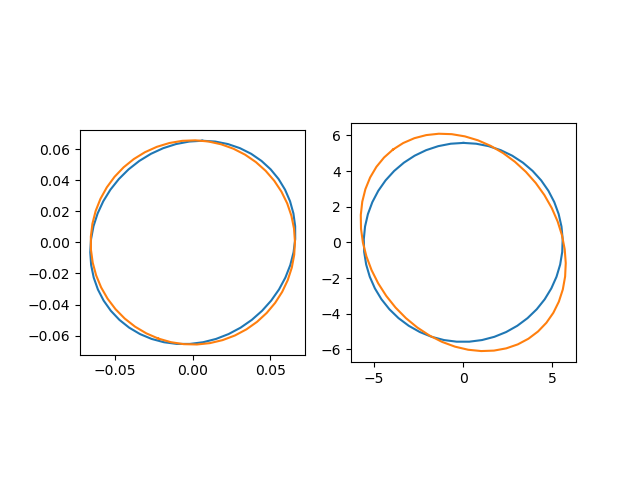
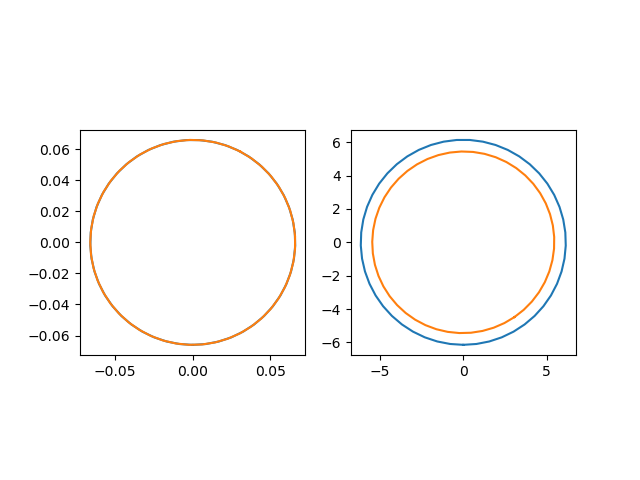
Bugfix
Made sure that the initial position is inside the region with density, such that the gradients are not underestimated.

diff --git a/Scotty_beam_me_up.py b/Scotty_beam_me_up.py
@@ -191,7 +191,7 @@ def beam_me_up(tau_step,
         if poloidal_flux <= 0.9473479057893939:
             density = 1.1*(-6.78999607*poloidal_flux + 6.43248856)*np.tanh(0.96350798 * poloidal_flux + 0.48792645)
         else:
-            density = 0
+            density = 0.0
         return density
     
     # This part of the code defines find_B_R, find_B_T, find_B_zeta
@@ -401,6 +401,10 @@ def beam_me_up(tau_step,
             for ii in range(0,numberOfFineSearchPoints):
                 poloidal_fine_search_array[ii] = interp_poloidal_flux(R_fine_search_array[ii],Z_fine_search_array[ii])
             entry_index = find_nearest(poloidal_fine_search_array,poloidal_flux_enter)
+            if poloidal_fine_search_array[entry_index] > poloidal_flux_enter:
+                # The first point needs to be in the plasma
+                # If the first point is outside, then there will be errors when the gradients are calculated
+                entry_index = entry_index + 1
             entry_position = np.zeros(3) # R,Z
             entry_position[0] = R_fine_search_array[entry_index]
             entry_position[1] = K_zeta_launch/K_R_launch * ( 1/launch_position[0] - 1/entry_position[0] )
@@ -412,8 +416,7 @@ def beam_me_up(tau_step,
                                                     + (launch_position[2] - entry_position[2])**2
                                                     )
             # Entry point found
-            plt.figure()
-            plt.plot(R_fine_search_array,poloidal_fine_search_array)
+
             
             # Calculate entry parameters from launch parameters
             # That is, find beam at start of plasma given its parameters at the antenna
@@ -664,11 +667,6 @@ def beam_me_up(tau_step,
 #    eigenvalues_output = np.zeros([numberOfDataPoints,3],dtype='complex128')
 #    eigenvectors_output = np.zeros([numberOfDataPoints,3,3],dtype='complex128')
     # KZ_debugging = np.linspace(-70,-90,1001)   
-    dH_dKZ_debugging = np.zeros(4)
-    for ii in range(0,4):
-        dH_dKZ_debugging[ii] = find_dH_dKZ(initial_position[0], initial_position[2], K_R_initial, K_zeta_initial, K_R_initial + ii*delta_K_Z,
-                                             launch_angular_frequency, mode_flag, delta_K_Z, 
-                                             interp_poloidal_flux, find_density_1D, find_B_R, find_B_T, find_B_Z)
 
     # -------------------
 
@@ -1063,8 +1061,6 @@ def beam_me_up(tau_step,
                  dpolflux_dZ_FFD_debugging=dpolflux_dZ_FFD_debugging,
                  d2polflux_dR2_FFD_debugging=d2polflux_dR2_FFD_debugging,
                  d2polflux_dZ2_FFD_debugging=d2polflux_dZ2_FFD_debugging, 
-                 #KZ_debugging = KZ_debugging, 
-                 dH_dKZ_debugging = dH_dKZ_debugging
                  )
     else:
          np.savez('data_input' + output_filename_suffix, tau_step=tau_step, data_poloidal_flux_grid=data_poloidal_flux_grid,

diff --git a/Scotty_plot2.py b/Scotty_plot2.py
@@ -87,8 +87,9 @@ dpolflux_dR_FFD_debugging = loadfile['dpolflux_dR_FFD_debugging']
 dpolflux_dZ_FFD_debugging = loadfile['dpolflux_dZ_FFD_debugging']
 d2polflux_dR2_FFD_debugging = loadfile['d2polflux_dR2_FFD_debugging']
 d2polflux_dZ2_FFD_debugging = loadfile['d2polflux_dZ2_FFD_debugging']
-# KZ_debugging = loadfile['KZ_debugging']
-dH_dKZ_debugging = loadfile['dH_dKZ_debugging']
+epsilon_para_output = loadfile['epsilon_para_output']
+epsilon_perp_output = loadfile['epsilon_perp_output']
+epsilon_g_output = loadfile['epsilon_g_output']
 loadfile.close()
 
 
@@ -477,8 +478,15 @@ plt.plot(distance_along_line,b_hat_output[:,1])
 plt.subplot(1,3,3)
 plt.plot(distance_along_line,b_hat_output[:,2])
 
+
 plt.figure()
-plt.plot(dH_dKZ_debugging)
+plt.subplot(1,3,1)
+plt.plot(distance_along_line,epsilon_para_output)
+plt.subplot(1,3,2)
+plt.plot(distance_along_line,epsilon_perp_output)
+plt.subplot(1,3,3)
+plt.plot(distance_along_line,epsilon_g_output)
+
 
 # d2H_dKZ2_debugging = np.gradient(dH_dKZ_debugging,KZ_debugging)
 

diff --git a/Scotty_fun_general.py b/Scotty_fun_general.py
@@ -347,8 +347,8 @@ def find_H(q_R, q_Z, K_R, K_zeta, K_Z, launch_angular_frequency, mode_flag,
     
     H = (K_magnitude/wavenumber_K0)**2 + (
             Booker_beta - mode_flag *
-            # np.sqrt(max(0, (Booker_beta**2 - 4*Booker_alpha*Booker_gamma)))
-            np.sqrt(Booker_beta**2 - 4*Booker_alpha*Booker_gamma)
+            np.sqrt(max(0, (Booker_beta**2 - 4*Booker_alpha*Booker_gamma)))
+            # np.sqrt(Booker_beta**2 - 4*Booker_alpha*Booker_gamma)
             ) / (2 * Booker_alpha)
     
     return H

diff --git a/Scotty_main.py b/Scotty_main.py
@@ -14,12 +14,12 @@ import numpy as np
 input_filename_suffix = '_29905_190'
 #input_filename_suffix = ''
 
-tau_step = 0.5
-numberOfTauPoints = 2001
+tau_step = 1.0
+numberOfTauPoints = 1001
 saveInterval = 1  # saves every n time steps
 
 poloidal_launch_angle_Torbeam = 4.0 # deg
-toroidal_launch_angle_Torbeam = -2.25 # deg
+toroidal_launch_angle_Torbeam = -9.25 # deg
 #toroidal_launch_angle_Torbeam_scan = np.linspace(2,-6,41)
 
 launch_freq_GHz = 55.0
